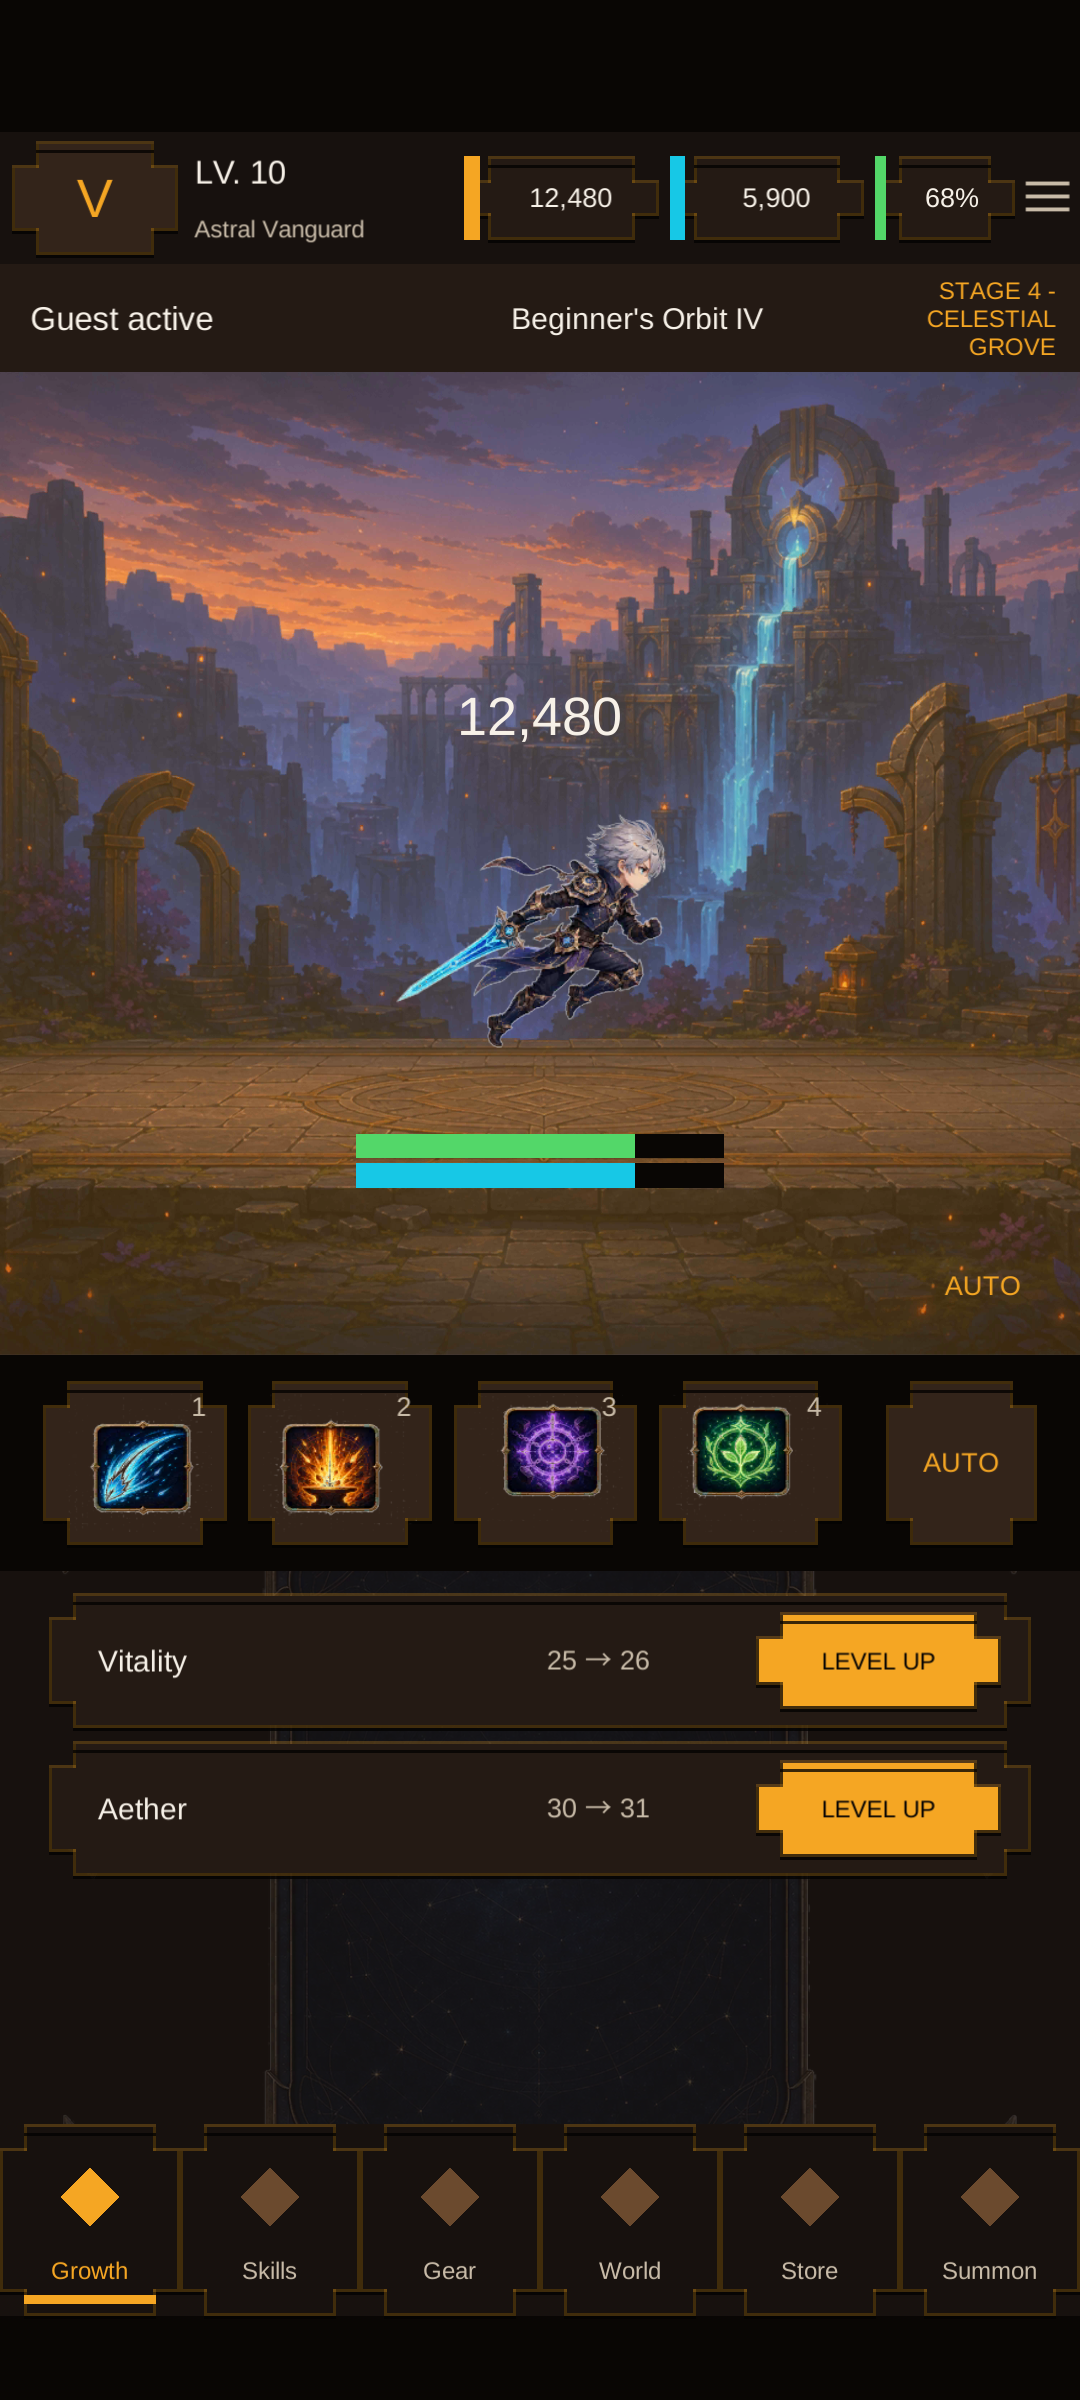
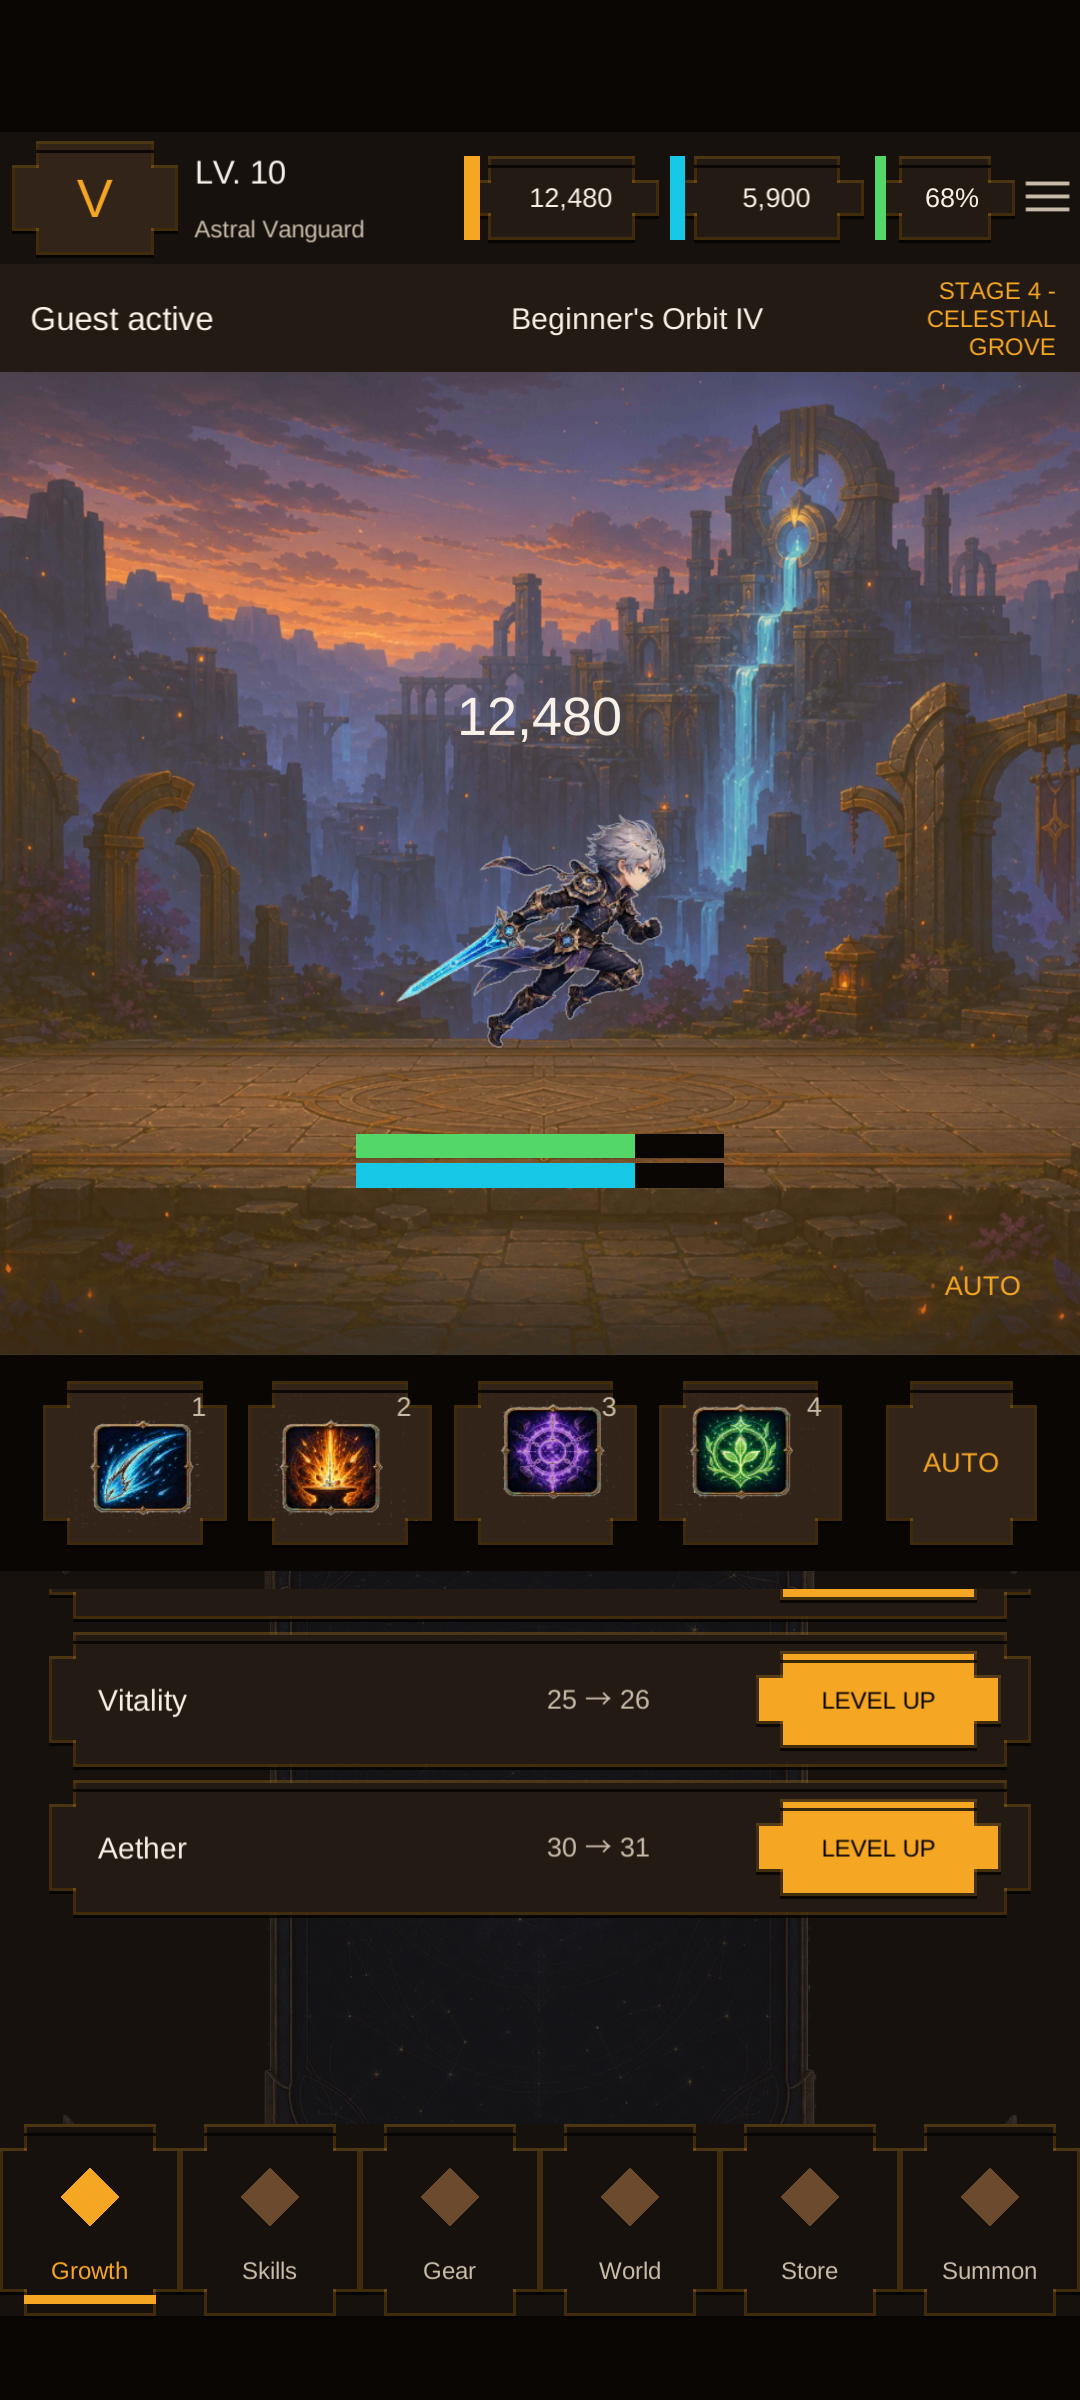
fix(client): support legacy Android safe insets

Changed region(s): [[0.0611, 0.6562, 0.9472, 0.8125], [0.0611, 0.7812, 0.0917, 0.8125]]

diff --git a/client/WarriorRaising/Assets/Warrior/Runtime/Presentation/SafeAreaRoot.cs b/client/WarriorRaising/Assets/Warrior/Runtime/Presentation/SafeAreaRoot.cs
@@ -103,9 +103,17 @@ namespace Warrior.Presentation
                 return 0f;
             }
 
+            using var buildVersion = new AndroidJavaClass("android.os.Build$VERSION");
+            if (buildVersion.GetStatic<int>("SDK_INT") < 30)
+            {
+                return windowInsets.Call<int>("getSystemWindowInsetBottom");
+            }
+
             using var insetType = new AndroidJavaClass("android.view.WindowInsets$Type");
-            var systemGestures = insetType.CallStatic<int>("systemGestures");
-            using var insets = windowInsets.Call<AndroidJavaObject>("getInsets", systemGestures);
+            var bottomTypes =
+                insetType.CallStatic<int>("systemGestures")
+                | insetType.CallStatic<int>("navigationBars");
+            using var insets = windowInsets.Call<AndroidJavaObject>("getInsets", bottomTypes);
             return insets.Get<int>("bottom");
         }
     }
